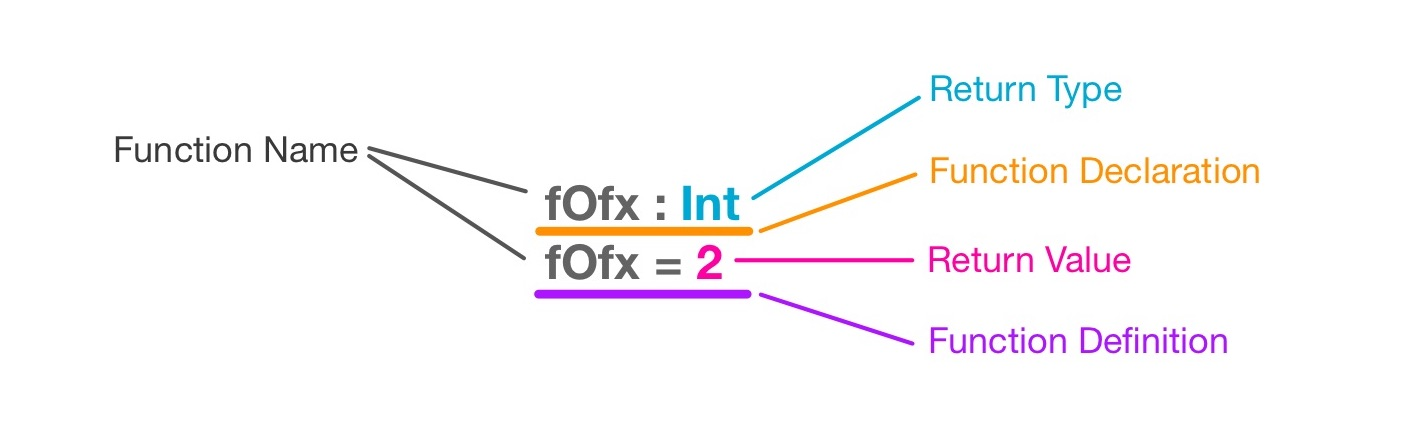
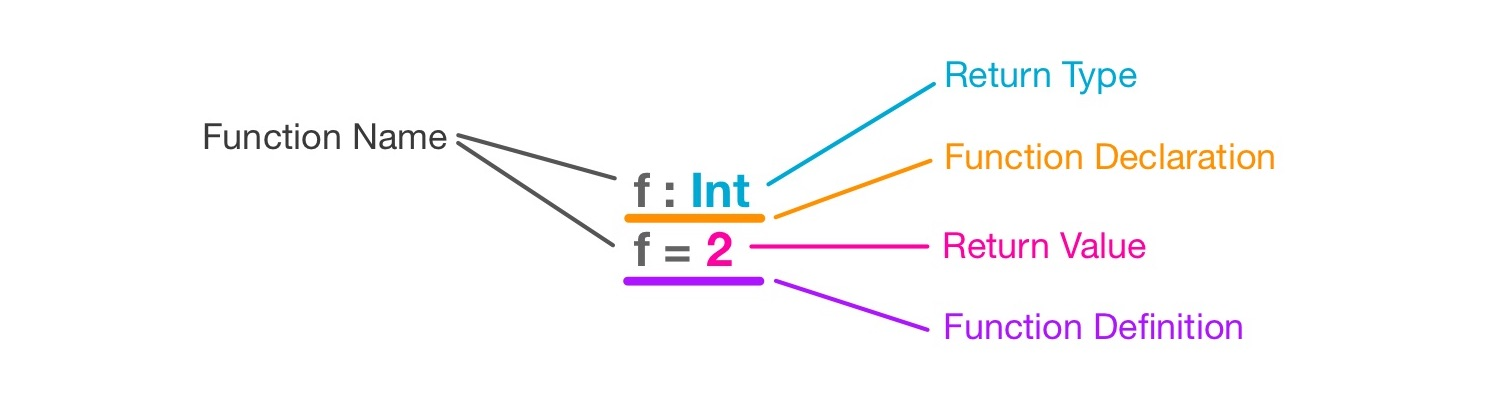
Refined functions tutorial

Changed region(s): [[0.0621, 0.1471, 0.8999, 0.8529], [0.5896, 0.5588, 0.8068, 0.6471]]

diff --git a/tutorials/functions.md b/tutorials/functions.md
@@ -25,25 +25,25 @@ If the inputs do not have an effect on the output of a function, then that funct
 
 In this function, no matter the value of the parameter **x**, the output (return) of **_f(x)_** will always be 2. Below is what this function looks like in BoGL.
 {% highlight haskell %}
-fOfx : Int
-fOfx = 2
+f : Int
+f = 2
 {% endhighlight %}
 To create a function we need to write two things: A declaration and a definition.
 
-The first part of a function is it's declaration. The declaration is where the types of the function's parameters (if there are any) and the type of the function's return value are declared. You can write a function declaration by first writing out the function's name. Opposite of type names, function names must start with a lowercase letter. In the above example our type is named _fOfx_. After the name we write a colon `:`, which is followed by the parameter types (none in the above example), which are then followed by the output type. The above example takes no parameters, so it only needs its return type of `Int` declared.
+The first part of a function is it's declaration. The declaration is where the types of the function's parameters (if there are any) and the type of the function's return value are declared. You can write a function declaration by first writing out the function's name. Opposite of type names, function names must start with a lowercase letter. In the above example our function is named _f_. After the name we write a colon `:`, which is followed by the parameter types (none in the above example), which are then followed by the output type. The above example takes no parameters, so it only needs its return type of `Int` declared.
 
 The second part of a function is its definition. The definition is where all the logic goes that is used to determine the output value. The definition starts with the same function name that was written in the declaration, and then followed by an equals sign `=`. After the equals sign is where the logic that determines the output value goes. The code written in the function definition can often span multiple lines.
 
 ![Anatomy of a parameterless function](../imgs/functions-no-parameter-function-anatomy.jpg)
 
-To actually utilize this function we must _call_ it. A function that has no parameters can be called by typing it's name. Try typing `fOfx` into the interpreter (right side text box) below and press enter. It should return the value `2`.
+To actually utilize this function we must _call_ it. A function that has no parameters can be called by typing it's name. Try typing `f` into the interpreter (right side text box) below and press enter. It should return the value `2`.
 
 {% include code_module_template.html 
 content = "
 game FunctionDemo <br/>
 <br/>
-fOfx : Int<br/>
-fOfx = 2<br/>
+f : Int<br/>
+f = 2<br/>
 "
 %}
 
@@ -60,9 +60,9 @@ f(x) = 2 * x
 ![function with parameter anatomy](../imgs/functions-function-with-parameter-anatomy.jpg)
 
 Since there is now a parameter that influences the output of the function, it must be accounted for in the function declaration. Parameters are written before the output value and are always followed by an arrow `->`. Reading the above function declaration for the function _f_ we know that it takes an integer type value as it's parameter and returns a integer type value.
-The output value `2 * x` is what we call an [expression](https://en.wikipedia.org/wiki/Expression_%28computer_science%29). An expression is something that must be evaluated (like calculating 2 * 2) before it's value is determined. Function return values are often in the form of expressions, which we will cover in detail in the next tutorial. For now lets utilize what we have learned so far to make a function that takes a coin toss result as an input and outputs a first player.
+The output value `2 * x` is what we call an [expression](https://en.wikipedia.org/wiki/Expression_%28computer_science%29). An expression is something that must be evaluated (like calculating 2 * 2) before it's value is determined. A function returns the result of evaluating an expression. We will cover expressions in detail in the next tutorial. For now lets utilize what we have learned so far to make a function that takes a coin toss result as an input and outputs a first player.
 
-We will call this function _determineFirstPlayer_. It will take a _TossResult_ as a parameter and return a _FirstPlayer_. Here is it's function declaration:
+We will call this function _determineFirstPlayer_. It will take a _TossResult_ as a parameter and return a _Player_. Here is it's function declaration:
 {% highlight haskell %}
 determineFirstPlayer : TossResult -> Player
 {% endhighlight %}
@@ -81,3 +81,7 @@ determineFirstPlayer(result) = Rosa
 To call a function that has a parameter you must first type the function's name, followed by parenthesis `()`. Inside of those parenthesis you must put a value that matches the type of the function's parameter. The function call `determineFirstPlayer(Heads)` will return the value `Rosa`.
 
 You may notice that the _result_ parameter is not being utilized, and that the output of this function will always be _Rosa_, no matter if the _result_ is Heads or Tails. In the next tutorial we will look at how we can replace the value _Rosa_ with an expression that can evaluate to _Jack_ or _Rosa_ depending on the parameter _result_'s value. 
+
+<br/>
+## Functions with Multiple Parameters
+A function can have multiple parameters by using [tuples](./types.html#tuples).
